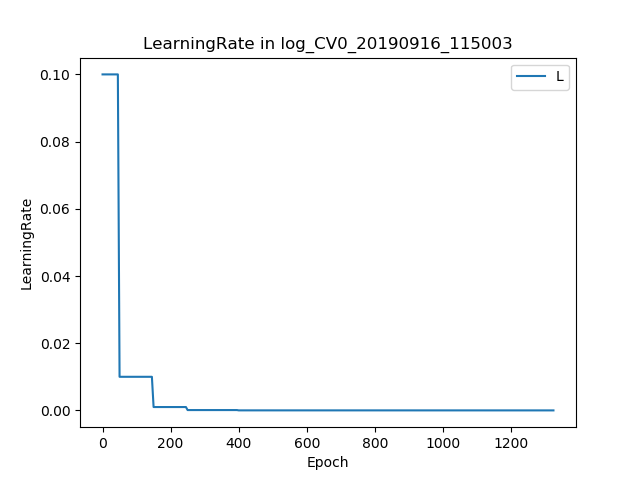
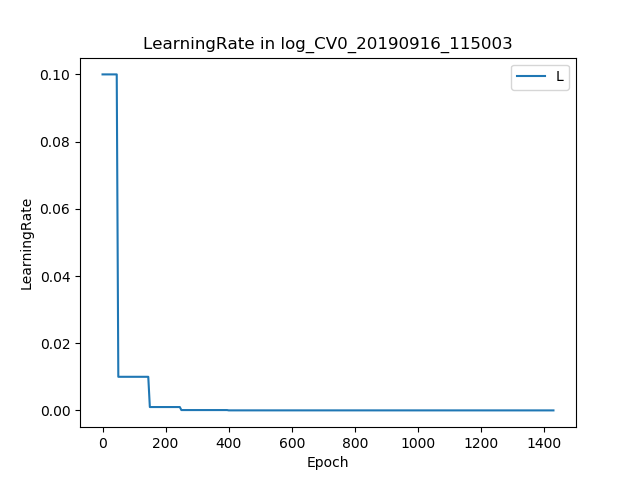
update log

diff --git a/TrainSegV3d_ROI.py b/TrainSegV3d_ROI.py
@@ -168,7 +168,7 @@ def main():
         logging.info(net.getParametersScale())
 
     # lrScheduler = optim.lr_scheduler.StepLR(optimizer, step_size=30, gamma=0.5)
-    lrScheduler = optim.lr_scheduler.MultiStepLR(optimizer, milestones=[50, 150, 250, 400, 600, 800, 1000, 1200, 1400], gamma=0.1, last_epoch=lastEpoch)
+    lrScheduler = optim.lr_scheduler.MultiStepLR(optimizer, milestones=[200, 400, 600, 800, 1000, 1200, 1400], gamma=0.1, last_epoch=lastEpoch)
 
     if useDataParallel:
         net = nn.DataParallel(net, device_ids=GPUIDList, output_device=device)
